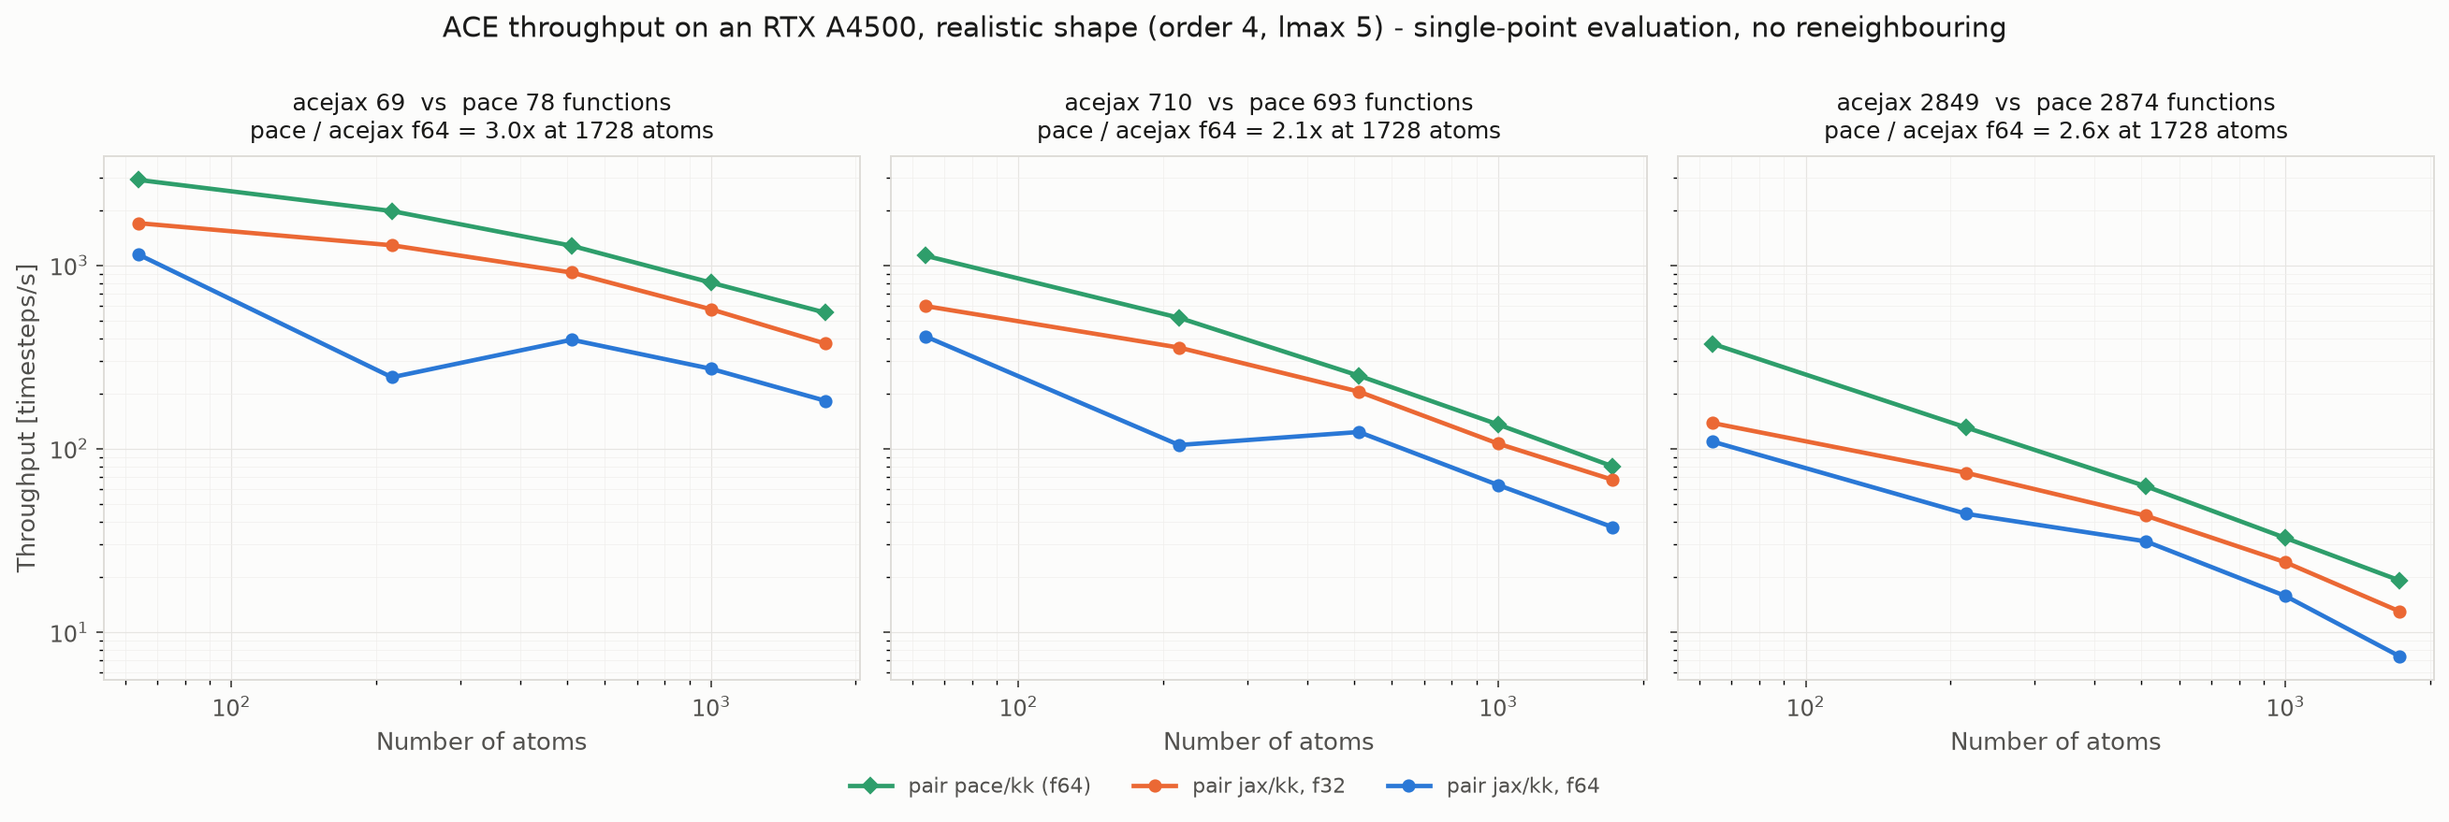
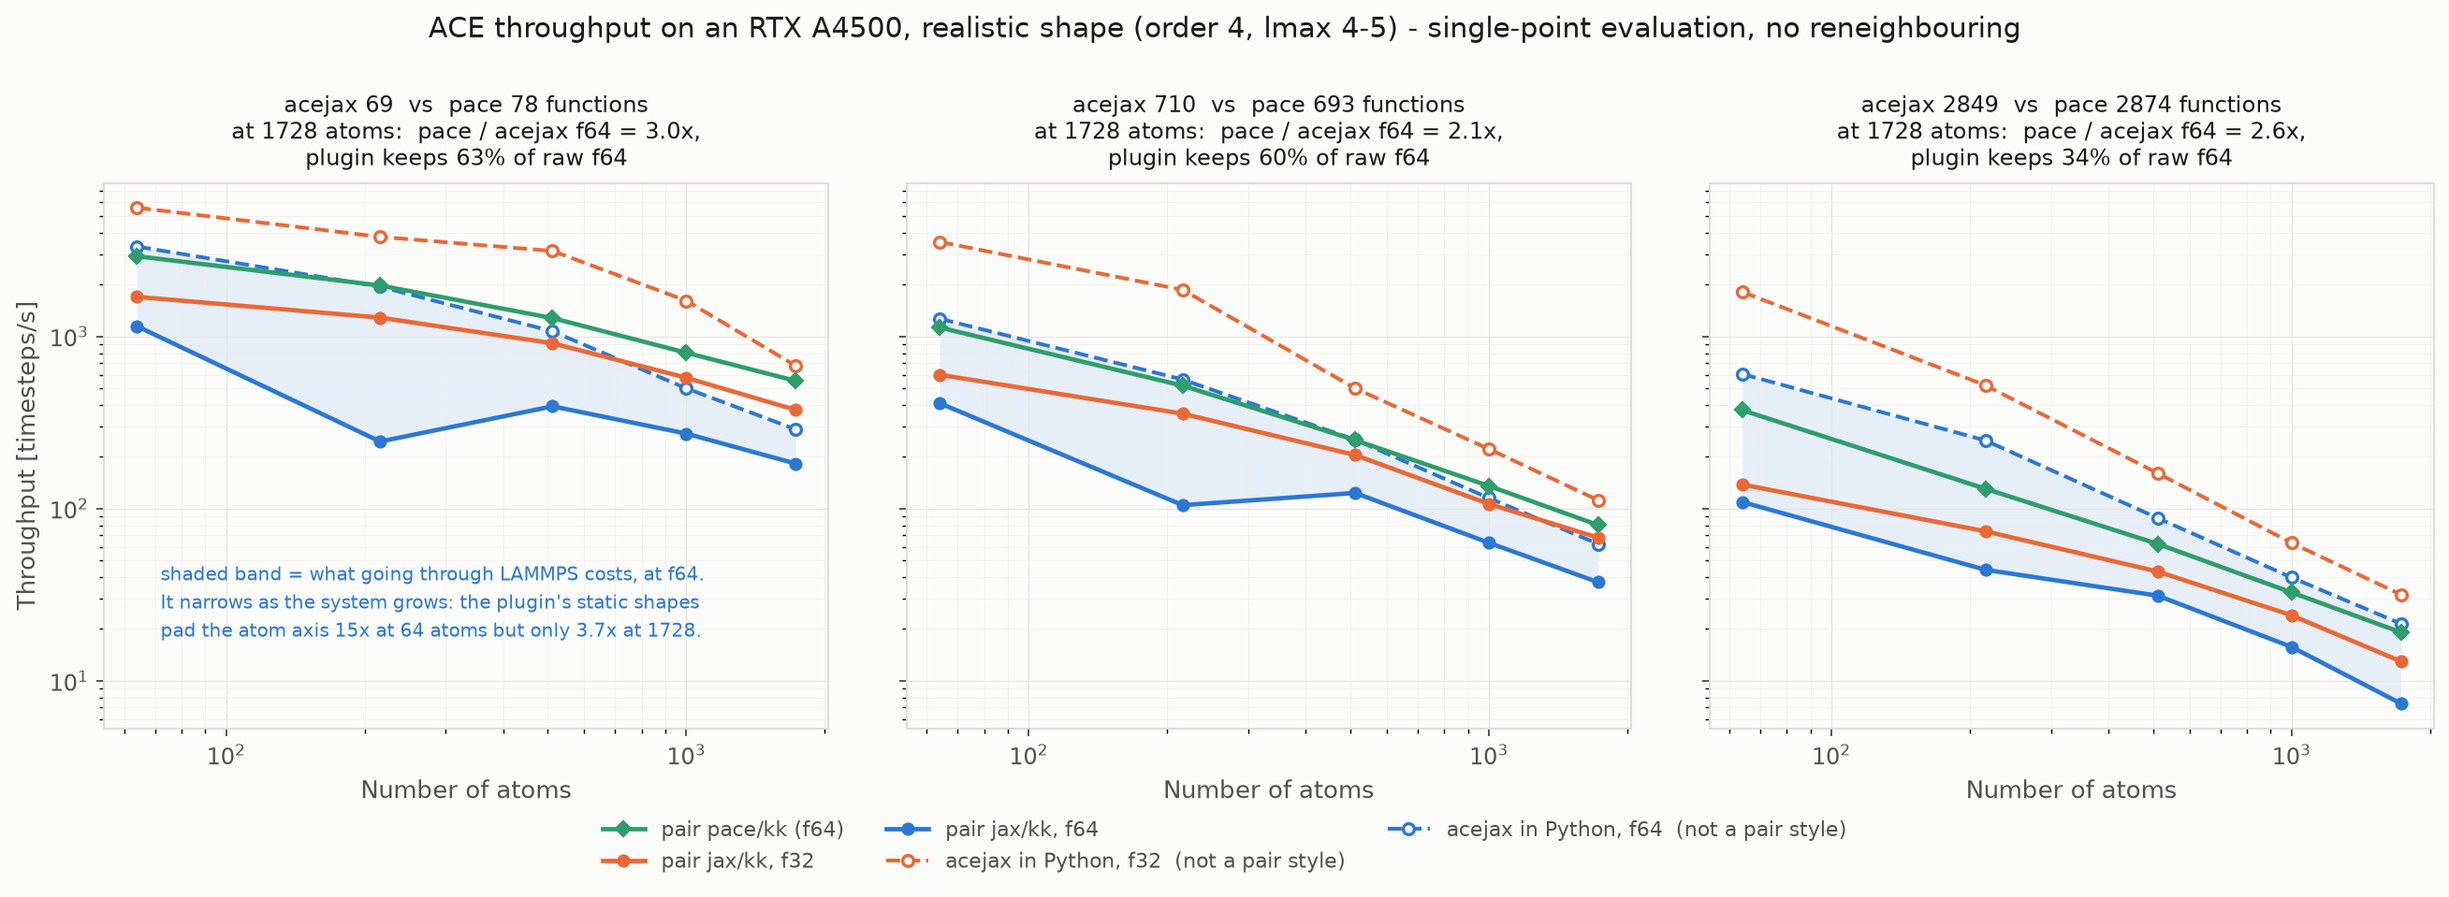
Add the acejax-in-Python series to the scaling plot
The plot carried three LAMMPS series and no baseline for the model itself, so
the plugin overhead existed only as a table of ratios at 1728 atoms.  The
Python numbers still in results.md under "acejax in Python, same GPU" are the
superseded 110-function model and correspond to nothing plotted; they are now
marked SUPERSEDED rather than left to be mistaken for the current series.

Measured on moriarty (RTX A4500) at the three realistic shapes -- n_B = 69, 710,
2849, order 4, lmax 4-5 -- both precisions, the same five atom counts the other
lines use, sparse A2B throughout, min of 10 repeats with compilation excluded.
Ran the whole series twice in separate processes (preallocation on and off):
eight of the nine points over 5 ms/step agree to 1.5%, the ninth to 3.3%.  Both
runs were taken with the GPU verified idle and a compute-app sampler running;
an earlier attempt OOM'd against another process holding 15.2 GB and produced
no numbers.

The gap is not a constant offset.  Retention rises from 0.13-0.34 at 64-216
atoms to 0.34-0.63 at 1728, and it is worst at the largest basis.  Both
directions follow the static shapes: the atom axis is padded 15x at 64 atoms
but 3.7x at 1728, the edge axis a flat ~1.4x, and export_bundle.py passes
max_atoms as the node count, so per-atom stages -- which dominate at n_B = 2849
-- run over every ghost slot.  Padding factors are exact; no experiment here
attributes a share of the lost throughput to each cause, and that is said.
[…]

diff --git a/acejax/bench/make_plot.py b/acejax/bench/make_plot.py
@@ -1,6 +1,6 @@
 """Scaling plot: throughput vs atom count, log-log, one panel per basis size.
 
-All three points use a REALISTIC ACE shape -- correlation order 4, lmax 5 --
+All three points use a REALISTIC ACE shape -- correlation order 4, lmax 4-5 --
 because that is how production potentials reach thousands of functions.  An
 earlier version of this series used lmax 10 at order 3, which reaches the same
 counts by a route real potentials do not take and which distorted the per-stage
@@ -8,8 +8,9 @@ breakdown badly (see results.md).
 
 Encoding: solid = a LAMMPS pair style; dashed = acejax driven from Python, which
 is NOT a pair style and carries no neighbour-list, communication or integration
-cost.  Same hue = same implementation, so a solid/dashed gap is what LAMMPS
-costs and a colour gap is what the implementation costs.
+cost, and no static-shape padding.  Same hue = same implementation, so a
+solid/dashed gap is what the plugin path costs and a colour gap is what the
+implementation costs.  The f64 pair is shaded to make that gap readable.
 """
 import pathlib
 
@@ -20,18 +21,29 @@ from matplotlib.lines import Line2D
 from matplotlib.ticker import NullFormatter
 
 N = [64, 216, 512, 1000, 1728]
-# atom-steps/s.  acejax uses the sparse A2B contraction throughout: dense is
-# 679 ms/step at n_B=2849 and would measure our implementation, not the design.
+# atom-steps/s.  acejax uses the sparse A2B contraction throughout -- LAMMPS
+# bundles and Python alike: dense is 679 ms/step at n_B=2849 and would measure
+# our implementation, not the design.
+#
+# jax_* and pace are LAMMPS pair styles; py_* is acejax called from Python on
+# the same GPU (bench_acejax.py --a2b-sparse, min of 10 repeats, compilation
+# excluded, exact edge and atom counts with no padding).
 DATA = {
     (69, 78):    {"jax_f64": [7.335e4, 5.294e4, 2.011e5, 2.725e5, 3.154e5],
                   "jax_f32": [1.087e5, 2.779e5, 4.674e5, 5.752e5, 6.467e5],
-                  "pace":    [1.872e5, 4.271e5, 6.545e5, 8.040e5, 9.539e5]},
+                  "pace":    [1.872e5, 4.271e5, 6.545e5, 8.040e5, 9.539e5],
+                  "py_f64":  [2.130e5, 4.203e5, 5.482e5, 4.994e5, 4.987e5],
+                  "py_f32":  [3.583e5, 8.185e5, 1.607e6, 1.612e6, 1.168e6]},
     (710, 693):  {"jax_f64": [2.621e4, 2.261e4, 6.310e4, 6.325e4, 6.451e4],
                   "jax_f32": [3.837e4, 7.687e4, 1.048e5, 1.064e5, 1.170e5],
-                  "pace":    [7.218e4, 1.118e5, 1.280e5, 1.353e5, 1.385e5]},
+                  "pace":    [7.218e4, 1.118e5, 1.280e5, 1.353e5, 1.385e5],
+                  "py_f64":  [8.118e4, 1.214e5, 1.285e5, 1.151e5, 1.076e5],
+                  "py_f32":  [2.267e5, 4.028e5, 2.556e5, 2.218e5, 1.931e5]},
     (2849, 2874):{"jax_f64": [6991, 9527, 1.597e4, 1.571e4, 1.274e4],
                   "jax_f32": [8829, 1.595e4, 2.205e4, 2.399e4, 2.239e4],
-                  "pace":    [2.388e4, 2.817e4, 3.190e4, 3.256e4, 3.302e4]},
+                  "pace":    [2.388e4, 2.817e4, 3.190e4, 3.256e4, 3.302e4],
+                  "py_f64":  [3.874e4, 5.375e4, 4.507e4, 3.979e4, 3.706e4],
+                  "py_f32":  [1.162e5, 1.124e5, 8.210e4, 6.319e4, 5.474e4]},
 }
 
 ts = lambda a: [ai / ni for ni, ai in zip(N, a)]
@@ -39,15 +51,22 @@ ts = lambda a: [ai / ni for ni, ai in zip(N, a)]
 BLUE, ORANGE, GREEN, GREY = "#2a78d6", "#eb6834", "#2e9e6b", "#8a8a85"
 INK, INK2, SURF = "#1a1a19", "#52514e", "#fcfcfb"
 
-fig, axes = plt.subplots(1, 3, figsize=(15.5, 4.8), sharey=True)
+fig, axes = plt.subplots(1, 3, figsize=(15.5, 5.1), sharey=True)
 fig.patch.set_facecolor(SURF)
 
-for ax, (key, d) in zip(axes, DATA.items()):
+for i, (ax, (key, d)) in enumerate(zip(axes, DATA.items())):
     ours, theirs = key
     ax.set_facecolor(SURF)
-    ax.plot(N, ts(d["pace"]), "-", color=GREEN, lw=2.0, marker="D", ms=5)
-    ax.plot(N, ts(d["jax_f32"]), "-", color=ORANGE, lw=2.0, marker="o", ms=5)
-    ax.plot(N, ts(d["jax_f64"]), "-", color=BLUE, lw=2.0, marker="o", ms=5)
+    # the f64 plugin gap, shaded: dashed above solid is what LAMMPS costs
+    ax.fill_between(N, ts(d["py_f64"]), ts(d["jax_f64"]),
+                    color=BLUE, alpha=0.10, lw=0, zorder=1)
+    ax.plot(N, ts(d["py_f32"]), "--", color=ORANGE, lw=1.7, marker="o", ms=5,
+            mfc=SURF, mew=1.4, zorder=3)
+    ax.plot(N, ts(d["py_f64"]), "--", color=BLUE, lw=1.7, marker="o", ms=5,
+            mfc=SURF, mew=1.4, zorder=3)
+    ax.plot(N, ts(d["pace"]), "-", color=GREEN, lw=2.0, marker="D", ms=5, zorder=4)
+    ax.plot(N, ts(d["jax_f32"]), "-", color=ORANGE, lw=2.0, marker="o", ms=5, zorder=4)
+    ax.plot(N, ts(d["jax_f64"]), "-", color=BLUE, lw=2.0, marker="o", ms=5, zorder=4)
     ax.set_xscale("log"); ax.set_yscale("log")
     ax.set_xlabel("Number of atoms", color=INK2, fontsize=11)
     ax.grid(True, which="major", ls="-", lw=0.5, color="#e6e5e2")
@@ -57,19 +76,30 @@ for ax, (key, d) in zip(axes, DATA.items()):
     for sp in ax.spines.values():
         sp.set_color("#dedcd8")
     r = d["pace"][-1] / d["jax_f64"][-1]
+    keep = d["jax_f64"][-1] / d["py_f64"][-1]
     ax.set_title(f"acejax {ours}  vs  pace {theirs} functions\n"
-                 f"pace / acejax f64 = {r:.1f}x at 1728 atoms",
-                 color=INK, fontsize=10.5, pad=8)
+                 f"at 1728 atoms:  pace / acejax f64 = {r:.1f}x,\n"
+                 f"plugin keeps {keep:.0%} of raw f64",
+                 color=INK, fontsize=10, pad=8)
+
+axes[0].text(72, 16, "shaded band = what going through LAMMPS costs, at f64.\n"
+             "It narrows as the system grows: the plugin's static shapes\n"
+             "pad the atom axis 15x at 64 atoms but only 3.7x at 1728.",
+             fontsize=8.5, color=BLUE, va="bottom", linespacing=1.5)
 
 axes[0].set_ylabel("Throughput [timesteps/s]", color=INK2, fontsize=11)
 handles = [
     Line2D([], [], color=GREEN, lw=2, marker="D", ms=5, label="pair pace/kk (f64)"),
     Line2D([], [], color=ORANGE, lw=2, marker="o", ms=5, label="pair jax/kk, f32"),
     Line2D([], [], color=BLUE, lw=2, marker="o", ms=5, label="pair jax/kk, f64"),
+    Line2D([], [], color=ORANGE, lw=1.7, ls="--", marker="o", ms=5, mfc=SURF,
+           mew=1.4, label="acejax in Python, f32  (not a pair style)"),
+    Line2D([], [], color=BLUE, lw=1.7, ls="--", marker="o", ms=5, mfc=SURF,
+           mew=1.4, label="acejax in Python, f64  (not a pair style)"),
 ]
-fig.legend(handles=handles, loc="lower center", bbox_to_anchor=(0.5, -0.05),
+fig.legend(handles=handles, loc="lower center", bbox_to_anchor=(0.5, -0.08),
            ncol=3, frameon=False, fontsize=9.5, labelcolor=INK2)
-fig.suptitle("ACE throughput on an RTX A4500, realistic shape (order 4, lmax 5) - "
+fig.suptitle("ACE throughput on an RTX A4500, realistic shape (order 4, lmax 4-5) - "
              "single-point evaluation, no reneighbouring",
              color=INK, fontsize=12.5, y=1.0)
 fig.tight_layout()

diff --git a/acejax/bench/results.md b/acejax/bench/results.md
@@ -11,27 +11,41 @@ shape and same-host ratios do.
 > The scaling series was built at an unrealistic model shape (high lmax, low
 > correlation order). Two conclusions below — "angular is 51.7% of runtime" and
 > "the pace/acejax ratio narrows monotonically" — are artefacts of that choice
-> and are superseded there. The absolute throughputs stand.
+> and are superseded there. The absolute throughputs stand, but they are the
+> throughputs of a 110-function model and **none of them are what
+> `scaling.png` plots**; the figure is built entirely from the realistic-shape
+> numbers in the CORRECTION section. Two sections below are marked SUPERSEDED
+> for that reason.
 
 ## Scaling
 
 ![ACE throughput vs atom count](scaling.png)
 
-Throughput in timesteps/s against atom count, log-log, one panel per precision,
-in the shape of the upstream chart in
-`docs/plans/lammps_jax_benchmark_reference.md` so the two can be read side by
-side. Regenerate with `uv run --with matplotlib python make_plot.py`.
+Throughput in timesteps/s against atom count, log-log, one panel per basis
+size, at the realistic shape of the CORRECTION section (n_B = 69, 710, 2849).
+Regenerate with `uv run --with matplotlib python make_plot.py`.
 
-Three things the shape shows that the tables do not:
+**Solid lines are LAMMPS pair styles; dashed lines are acejax called directly
+from Python**, which is *not* a pair style: it carries no neighbour list, no
+communication, no integration, and no static-shape padding. Same hue = same
+implementation, so within a colour the solid/dashed gap is the cost of the
+plugin path, and between colours it is the cost of the implementation.
 
-- **The f64 dip at 216 atoms is visible as a V**, not a smooth curve. It is the
-  capacity effect below, and it reproduces to under 1%.
-- **f32 and f64 share a y-axis**, so the ~2.2x gap between them is a vertical
-  offset rather than a number to compare across two scales.
-- **Stillinger-Weber is near-flat** while the ACE curves fall roughly as 1/N —
-  SW keeps near-constant wall time over this range, so the visible gap widens
-  with system size. That is a scale reference, not a like-for-like comparison:
-  it is a classical 3-body potential, different physics entirely.
+Four things the shape shows that the tables do not:
+
+- **The f64 dip at 216 atoms is a V in the LAMMPS lines and absent from the
+  Python ones.** In `pair jax/kk` f64, 216 atoms is *slower* than 64 at
+  n_B = 69 and at n_B = 710; in Python, 216 atoms is faster than 64 at all
+  three basis sizes. So the dip belongs to the plugin path — bundle capacity
+  and kernel shape — not to the model.
+- **The plugin gap narrows with system size rather than sitting at a constant
+  offset.** The shaded f64 band is at its widest at the left-hand end
+  (64-216 atoms) of every panel and at its narrowest at 1728.
+- **The f32 pair narrows the same way**, so this is not a precision effect.
+- **At n_B = 2849 the dashed blue line crosses above the green one**: the model
+  in Python is slightly faster in f64 than `pair pace/kk` at a matched basis
+  size. That crossing is not like-for-like (see below) but it locates the
+  remaining gap in the plugin path rather than in the kernel.
 
 ## Method, and what it excludes
 
@@ -88,7 +102,12 @@ The f64 216-atom point at 1.35x reproduces to under 1% across five runs
 The same margin is fine for f32 at that size, consistent with a tiling effect
 that depends on element width.
 
-## acejax in Python, same GPU
+## acejax in Python, same GPU (n_B = 110 — SUPERSEDED)
+
+> **These numbers are for the superseded 110-function model** (order 3,
+> lmax 4) and correspond to no series in `scaling.png`. The Python series at
+> the current shapes is measured further down, under "acejax in Python at the
+> realistic shapes". Do not mix the two.
 
 Forces via `jax.grad`, `min` of 10 repeats, compilation excluded.
 
@@ -108,7 +127,11 @@ earlier 3-5.4x measurement on different hardware: the descriptor is
 memory-bound, so the 1/32 FP64 arithmetic rate is not what governs. f64 is not
 the afterthought here that it is for cheaper potentials.
 
-## Plugin overhead
+## Plugin overhead (n_B = 110 — SUPERSEDED)
+
+> **Superseded**, for the same reason: both sides of these ratios are the
+> 110-function model. The realistic-shape version is "The plugin gap across
+> sizes" below, and it is a good deal larger than the ~80% quoted here.
 
 Best-case LAMMPS against acejax-in-Python at the same size and precision:
 
@@ -323,7 +346,12 @@ channels against 36 at lmax 5, so of course the angular stage dominated — we
 made it dominate. The series was rebuilt at **order 4, lmax 5** throughout, with
 only the size varying.
 
-## Rebuilt series: order 4, lmax 5, rcut 6.0, Si
+## Rebuilt series: order 4, lmax 4-5, rcut 6.0, Si
+
+One detail worth correcting in the sentence above: the rebuilt series is order 4
+throughout, but the *small* model is lmax 4, not 5 — `fixtures/si_s69.npz`
+carries `lmax: 4`, while `si_m710.npz` and `si_l2849.npz` carry `lmax: 5`. It is
+labelled "order 4, lmax 4-5" in `scaling.png` for that reason.
 
 | | acejax | pace | gap | AA terms by rank |
 |---|---|---|---|---|
@@ -375,6 +403,150 @@ narrower overall, and roughly flat rather than steadily converging. The clean
 trend was partly an artefact of varying lmax along with size.
 
 In f32 the two are within 1.2-1.5x throughout.
+
+## acejax in Python at the realistic shapes
+
+The same model, same GPU, called directly from Python — no LAMMPS. Forces via
+`jax.grad`, sparse `A2B`, `min` of 10 repeats, compilation excluded. Exact edge
+and atom counts: nothing is padded, which is the point of the comparison.
+
+`bench_acejax.py --npz fixtures/si_{s69,m710,l2849}.npz --reps 2 3 4 5 6
+--repeats 10 --a2b-sparse [--f32]`
+
+**n_B = 69** (order 4, lmax 4)
+
+| atoms | edges | f64 ms/step | f64 atom-steps/s | f32 ms/step | f32 atom-steps/s |
+|---|---|---|---|---|---|
+| 64 | 2852 | 0.301 | 2.13e5 | 0.179 | 3.58e5 |
+| 216 | 9582 | 0.514 | 4.20e5 | 0.264 | 8.19e5 |
+| 512 | 22796 | 0.934 | 5.48e5 | 0.319 | 1.61e6 |
+| 1000 | 44548 | 2.002 | 4.99e5 | 0.620 | 1.61e6 |
+| 1728 | 76920 | 3.465 | 4.99e5 | 1.480 | 1.17e6 |
+
+**n_B = 710** (order 4, lmax 5)
+
+| atoms | edges | f64 ms/step | f64 atom-steps/s | f32 ms/step | f32 atom-steps/s |
+|---|---|---|---|---|---|
+| 64 | 2852 | 0.788 | 8.12e4 | 0.282 | 2.27e5 |
+| 216 | 9582 | 1.779 | 1.21e5 | 0.536 | 4.03e5 |
+| 512 | 22796 | 3.984 | 1.28e5 | 2.003 | 2.56e5 |
+| 1000 | 44548 | 8.689 | 1.15e5 | 4.508 | 2.22e5 |
+| 1728 | 76920 | 16.062 | 1.08e5 | 8.948 | 1.93e5 |
+
+**n_B = 2849** (order 4, lmax 5)
+
+| atoms | edges | f64 ms/step | f64 atom-steps/s | f32 ms/step | f32 atom-steps/s |
+|---|---|---|---|---|---|
+| 64 | 2852 | 1.652 | 3.87e4 | 0.551 | 1.16e5 |
+| 216 | 9582 | 4.018 | 5.38e4 | 1.922 | 1.12e5 |
+| 512 | 22796 | 11.361 | 4.51e4 | 6.236 | 8.21e4 |
+| 1000 | 44548 | 25.129 | 3.98e4 | 15.825 | 6.32e4 |
+| 1728 | 76920 | 46.624 | 3.71e4 | 31.570 | 5.47e4 |
+
+**Exclusions, restated** — these are the same two the LAMMPS numbers carry, plus
+one the LAMMPS numbers do not:
+
+1. **No reneighbouring.** The edge list is built once per size and reused, as
+   `timestep 0.0` does on the LAMMPS side.
+2. **Compilation excluded.** The first call is run and discarded; the reported
+   figure is the `min` of 10 timed repeats after it. Unlike the `run 100`
+   numbers, compilation is fully outside the measurement here, not merely a
+   small share of it.
+3. **No neighbour list, no MPI communication, no integration, and no padding.**
+   That is what makes this the right baseline for isolating plugin cost, and
+   what makes it *not* a pair style.
+
+**Repeatability.** The whole six-block series was run twice, in separate
+processes: once with `XLA_PYTHON_CLIENT_PREALLOCATE=false` and once with JAX's
+default preallocation. Of the nine points longer than 5 ms/step, eight agree to
+within 1.5% and the ninth to 3.3%; points under 1 ms scatter far more, up to 17%
+(0.226 vs 0.264 ms at n_B = 69, 216 atoms), which is what timing a quarter of a
+millisecond over the Python/JAX dispatch path costs. There is no systematic
+difference between the two settings, so preallocation is not what the LAMMPS
+comparison turns on. The table above is the default-preallocation run; both raw
+logs are on moriarty at `~/si-ace/acejax/bench/py_series{,_prealloc}.txt`, with
+the compute-app samplers beside them.
+
+**GPU exclusivity.** A first attempt failed outright — another process held
+15.2 GB of the 20 GB card and every allocation OOM'd, so no numbers were
+produced. Both reported runs were taken with `nvidia-smi
+--query-compute-apps` verified empty beforehand and a 3-second sampler running
+throughout; in neither run does a second PID ever appear.
+
+## The plugin gap across sizes
+
+`pair jax/kk` throughput divided by acejax-in-Python throughput at the same
+size, precision and basis — the fraction of raw model throughput that survives
+the plugin path. Alongside it, how much each bundle's static shapes over-provision
+against what that configuration actually uses.
+
+| atoms | atom slots / atoms | edge slots / edges | 69 f64 | 710 f64 | 2849 f64 | 69 f32 | 710 f32 | 2849 f32 |
+|---|---|---|---|---|---|---|---|---|
+| 64 | 15.0x | 1.68x | 0.34 | 0.32 | 0.18 | 0.30 | 0.17 | 0.08 |
+| 216 | 8.0x | 1.45x | 0.13 | 0.19 | 0.18 | 0.34 | 0.19 | 0.14 |
+| 512 | 5.6x | 1.37x | 0.37 | 0.49 | 0.35 | 0.29 | 0.41 | 0.27 |
+| 1000 | 4.4x | 1.47x | 0.55 | 0.55 | 0.39 | 0.36 | 0.48 | 0.38 |
+| 1728 | 3.7x | 1.40x | **0.63** | **0.60** | **0.34** | 0.55 | 0.61 | 0.41 |
+
+**The overhead is not a constant offset — it shrinks as the system grows.**
+Retention rises by 1.8-1.9x between 64 and 1728 atoms in the f64 columns, and by
+1.8-5x in f32. On the plot this is the shaded band closing from left to right —
+not monotonically, since 216 atoms is a local worst case in f64 at the two
+smaller bases, the same V the LAMMPS series shows. This is the thing the ratio
+table alone could not say.
+
+**Two mechanisms with exactly known padding factors** — their *effect* on
+runtime is a different matter, see the caveat below. The bundles have static
+shapes, so every padded slot is evaluated:
+
+- The **atom** axis is padded to `max_atoms`, which covers local atoms *plus
+  ghosts* plus a 1.25x margin — 15.0x the local atom count at 64 atoms, falling
+  to 3.7x at 1728 as the surface-to-volume ratio does. `export_bundle.py` passes
+  `positions.shape[0]`, i.e. `max_atoms`, as the node count to
+  `model.site_energies`, so the per-atom stages (`A` pooling, `AA` products,
+  `A2B`, readout) run over every slot. In Python they run over exactly `N`.
+- The **edge** axis is padded ~1.4x throughout, so the edge-wise stages
+  (radial, angular, `edge_A`) pay a roughly constant 1.4x.
+
+That the atom padding falls with N while the edge padding does not is
+consistent with the narrowing, and it predicts the second pattern in the table:
+
+**Retention is worst at n_B = 2849** — 0.34 at 1728 atoms against 0.60-0.63 at
+the two smaller bases. That is where the per-atom stages dominate (`A2B` 54%,
+`AA` 38% of `site_basis` at this shape), so the 3.7x atom-slot padding lands on
+most of the work rather than a minority of it.
+
+**What is not separated here.** This measurement gives the *total* cost of the
+plugin path; it does not decompose it. Padding, LAMMPS's own neighbour list,
+MPI-layer bookkeeping, integration and the PJRT call boundary are all inside
+these ratios. The padding factors above are exact counts and the code path is
+verified, but no experiment here attributes a share of the lost throughput to
+each. Re-running one point with capacities cut to the actual counts would do
+that, and has not been done.
+
+## What that says about the pace comparison
+
+At 1728 atoms, `pair pace/kk` against acejax **in Python**:
+
+| basis (ours vs pace) | pace / acejax f64 | pace / acejax f32 |
+|---|---|---|
+| 69 vs 78 | 1.9x | 0.8x |
+| 710 vs 693 | 1.3x | 0.7x |
+| 2849 vs 2874 | **0.9x** | 0.6x |
+
+**This is not like-for-like and must not be quoted as "acejax beats pace".**
+pace is measured inside LAMMPS and pays the neighbour list, communication and
+integration that the Python line does not, so the comparison flatters our side.
+The honest reading is a bound in the other direction: **the like-for-like
+deficit at n_B = 2849 (2.6x, both in LAMMPS) is larger than any deficit
+attributable to the kernel** — in Python the same model in f64 matches pace's
+throughput at a matched basis size. Whatever the kernel gap is at production
+basis size, it is smaller than the plugin path's contribution.
+
+**f64 against f32 in Python** costs 2.34x at n_B = 69, 1.80x at 710 and 1.48x at
+2849, all at 1728 atoms. The penalty *falls* as the basis grows, consistent with
+the large-basis stages being bandwidth- and index-bound rather than
+arithmetic-bound.
 
 ## Our spherical harmonics against sphericart
 
